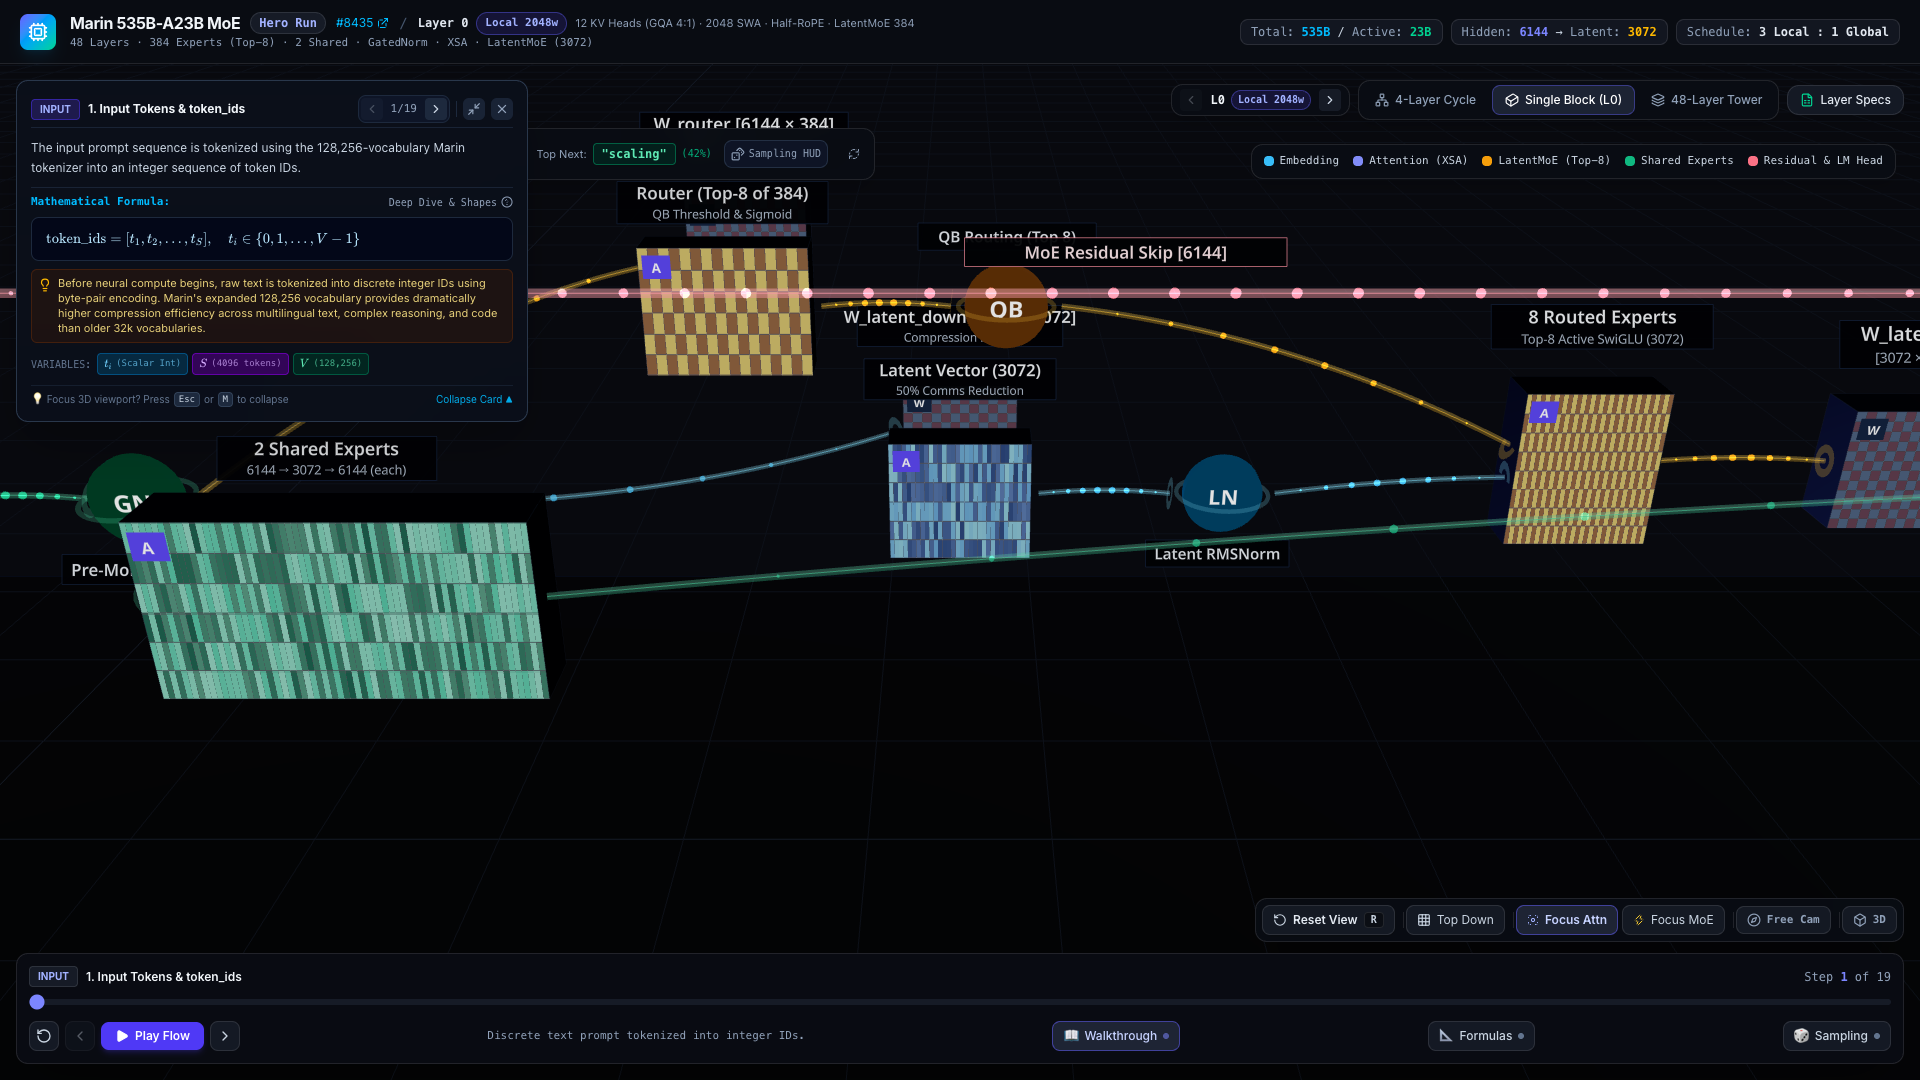
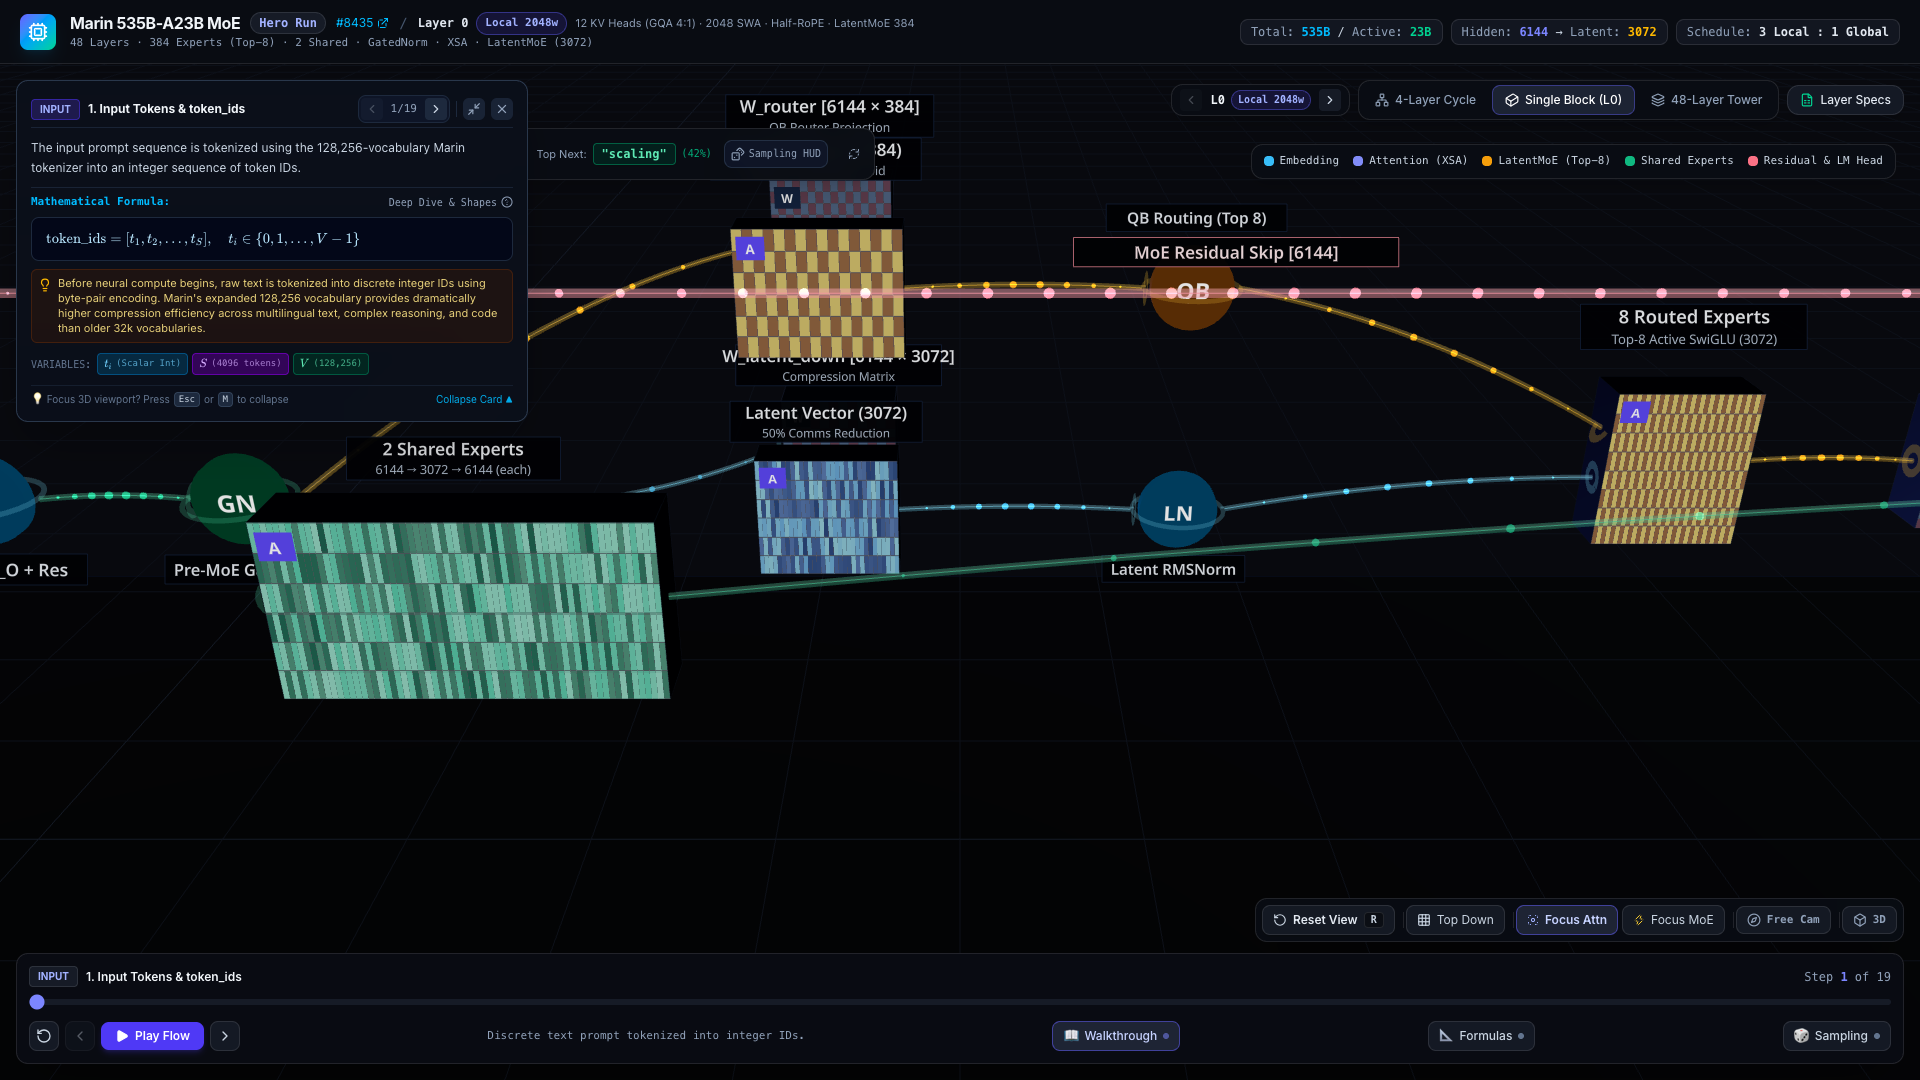
fix(visualizer): implement absolute Zero-X-Collision Twin Hydraulic Vise Layout for Latent MoE

diff --git a/src/components/ThreeScene/MicroBlockView.tsx b/src/components/ThreeScene/MicroBlockView.tsx
@@ -645,9 +645,9 @@ export const MicroBlockView: React.FC<MicroBlockViewProps> = ({
       {/* Flow to Router */}
       <FlowConnection
         from={[16.55, 2.0, 0]}
-        to={[20.7, 3.2, -4.5]}
+        to={[20.8, 3.4, -4.5]}
         color="#f59e0b"
-        isHighlighted={isFlowActive(isStep('router_qb_selection'), ['op_moe_gn', 'node_router'])}
+        isHighlighted={isFlowActive(isStep('router_qb_selection'), ['op_moe_gn', 'node_w_router'])}
         label="Router In"
       />
 
@@ -656,7 +656,7 @@ export const MicroBlockView: React.FC<MicroBlockViewProps> = ({
         id="node_w_router"
         label="W_router [6144 × 384]"
         subLabel="QB Router Projection"
-        position={[21.5, 3.2, -4.5]}
+        position={[21.5, 3.4, -4.5]}
         size={[1.4, 1.6, 0.6]}
         gridRows={12}
         gridCols={16}
@@ -671,8 +671,8 @@ export const MicroBlockView: React.FC<MicroBlockViewProps> = ({
 
       {/* W_router Weight into Router */}
       <FlowConnection
-        from={[21.5, 3.2, -4.2]}
-        to={[21.5, 3.2, -2.8]}
+        from={[21.5, 3.4, -4.2]}
+        to={[21.5, 3.4, -2.8]}
         color="#f59e0b"
         tubeRadius={0.025}
         particleCount={4}
@@ -685,7 +685,7 @@ export const MicroBlockView: React.FC<MicroBlockViewProps> = ({
         id="node_router"
         label="Router (Top-8 of 384)"
         subLabel="QB Threshold & Sigmoid"
-        position={[21.5, 3.2, -2.5]}
+        position={[21.5, 3.4, -2.5]}
         size={[1.8, 1.4, 0.5]}
         gridRows={activationData.tokens.length}
         gridCols={16}
@@ -694,13 +694,13 @@ export const MicroBlockView: React.FC<MicroBlockViewProps> = ({
         onHover={onHoverItem}
         onClick={onClickItem}
         onHoverCell={onHoverCell}
-        labelYOffset={-0.1}
+        labelYOffset={0.15}
       />
 
       {/* Router Matrix to QB Operator */}
       <FlowConnection
-        from={[22.5, 3.2, -2.5]}
-        to={[23.9, 3.2, -2.5]}
+        from={[22.4, 3.4, -2.5]}
+        to={[25.0, 3.4, -2.5]}
         color="#f59e0b"
         isHighlighted={isFlowActive(isStep('router_qb_selection'), ['node_router', 'op_router_qb'])}
       />
@@ -710,7 +710,7 @@ export const MicroBlockView: React.FC<MicroBlockViewProps> = ({
         id="op_router_qb"
         name="QB Routing (Top 8)"
         symbol="QB"
-        position={[24.5, 3.2, -2.5]}
+        position={[25.5, 3.4, -2.5]}
         color="#f59e0b"
         isHighlighted={isHighlighted('op_router_qb')}
         onHover={onHoverItem}
@@ -749,7 +749,7 @@ export const MicroBlockView: React.FC<MicroBlockViewProps> = ({
       {/* Branch to Latent Down */}
       <FlowConnection
         from={[16.55, 2.0, 0]}
-        to={[23.2, 1.0, -4.5]}
+        to={[20.8, 0.8, -4.5]}
         color="#38bdf8"
         isHighlighted={isFlowActive(isStep('latent_compression'), ['op_moe_gn', 'node_w_latent_down'])}
         label="Compress 6144→3072"
@@ -760,7 +760,7 @@ export const MicroBlockView: React.FC<MicroBlockViewProps> = ({
         id="node_w_latent_down"
         label="W_latent_down [6144 × 3072]"
         subLabel="Compression Matrix"
-        position={[24.0, 1.0, -4.5]}
+        position={[21.5, 0.8, -4.5]}
         size={[1.4, 1.4, 0.6]}
         gridRows={12}
         gridCols={12}
@@ -770,13 +770,13 @@ export const MicroBlockView: React.FC<MicroBlockViewProps> = ({
         onHover={onHoverItem}
         onClick={onClickItem}
         onHoverCell={onHoverCell}
-        labelYOffset={0.15}
+        labelYOffset={-0.15}
       />
 
       {/* W_latent_down Weight into Latent Down Matrix */}
       <FlowConnection
-        from={[24.0, 1.0, -4.2]}
-        to={[24.0, 1.0, -2.8]}
+        from={[21.5, 0.8, -4.2]}
+        to={[21.5, 0.8, -2.8]}
         color="#38bdf8"
         tubeRadius={0.025}
         particleCount={4}
@@ -789,7 +789,7 @@ export const MicroBlockView: React.FC<MicroBlockViewProps> = ({
         id="node_latent_down"
         label="Latent Vector (3072)"
         subLabel="50% Comms Reduction"
-        position={[24.0, 1.0, -2.5]}
+        position={[21.5, 0.8, -2.5]}
         size={[32 * DIM_W, 1.4, 0.5]}
         gridRows={activationData.tokens.length}
         gridCols={32}
@@ -799,13 +799,13 @@ export const MicroBlockView: React.FC<MicroBlockViewProps> = ({
         onHover={onHoverItem}
         onClick={onClickItem}
         onHoverCell={onHoverCell}
-        labelYOffset={0.15}
+        labelYOffset={-0.15}
       />
 
       {/* Latent Down to Latent RMSNorm */}
       <FlowConnection
-        from={[24.9, 1.0, -2.5]}
-        to={[26.4, 1.0, -2.5]}
+        from={[22.3, 0.8, -2.5]}
+        to={[25.0, 0.8, -2.5]}
         color="#38bdf8"
         isHighlighted={isFlowActive(isStep('latent_compression'), ['node_latent_down', 'op_latent_norm'])}
         label="RMSNorm"
@@ -816,7 +816,7 @@ export const MicroBlockView: React.FC<MicroBlockViewProps> = ({
         id="op_latent_norm"
         name="Latent RMSNorm"
         symbol="LN"
-        position={[27.0, 1.0, -2.5]}
+        position={[25.5, 0.8, -2.5]}
         color="#38bdf8"
         isHighlighted={isHighlighted('op_latent_norm')}
         onHover={onHoverItem}
@@ -826,19 +826,20 @@ export const MicroBlockView: React.FC<MicroBlockViewProps> = ({
 
       {/* QB Router to 8 Routed Experts: Gating dispatch */}
       <FlowConnection
-        from={[25.1, 3.2, -2.5]}
-        to={[30.2, 1.6, -2.5]}
+        from={[26.0, 3.4, -2.5]}
+        to={[30.2, 1.8, -2.5]}
         color="#f59e0b"
-        curveHeight={0.5}
+        curveHeight={0.4}
         isHighlighted={isFlowActive(isStep('router_qb_selection') || isStep('routed_experts_swiglu'), ['op_router_qb', 'node_experts_routed'])}
         label="Top-8 Gating Beam"
       />
 
       {/* Latent RMSNorm into 8 Routed Experts */}
       <FlowConnection
-        from={[27.6, 1.0, -2.5]}
+        from={[26.0, 0.8, -2.5]}
         to={[30.2, 1.2, -2.5]}
         color="#38bdf8"
+        curveHeight={0.2}
         isHighlighted={isFlowActive(isStep('routed_experts_swiglu'), ['op_latent_norm', 'node_experts_routed'])}
         label="Latent [3072]"
       />
